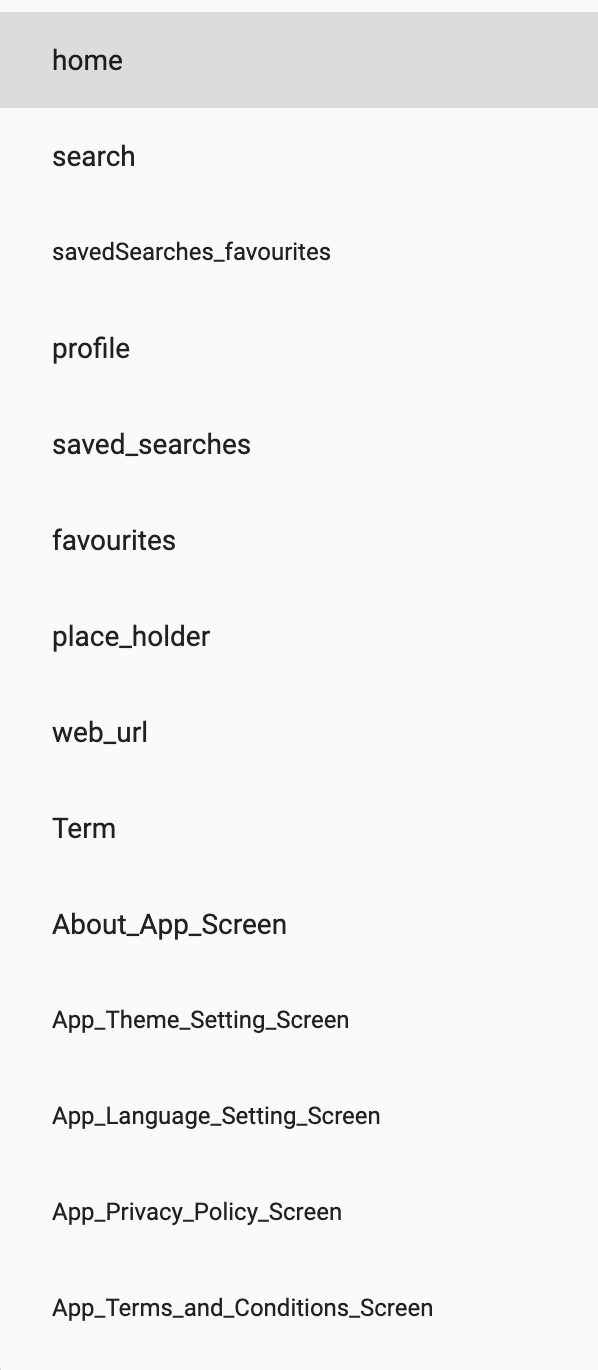
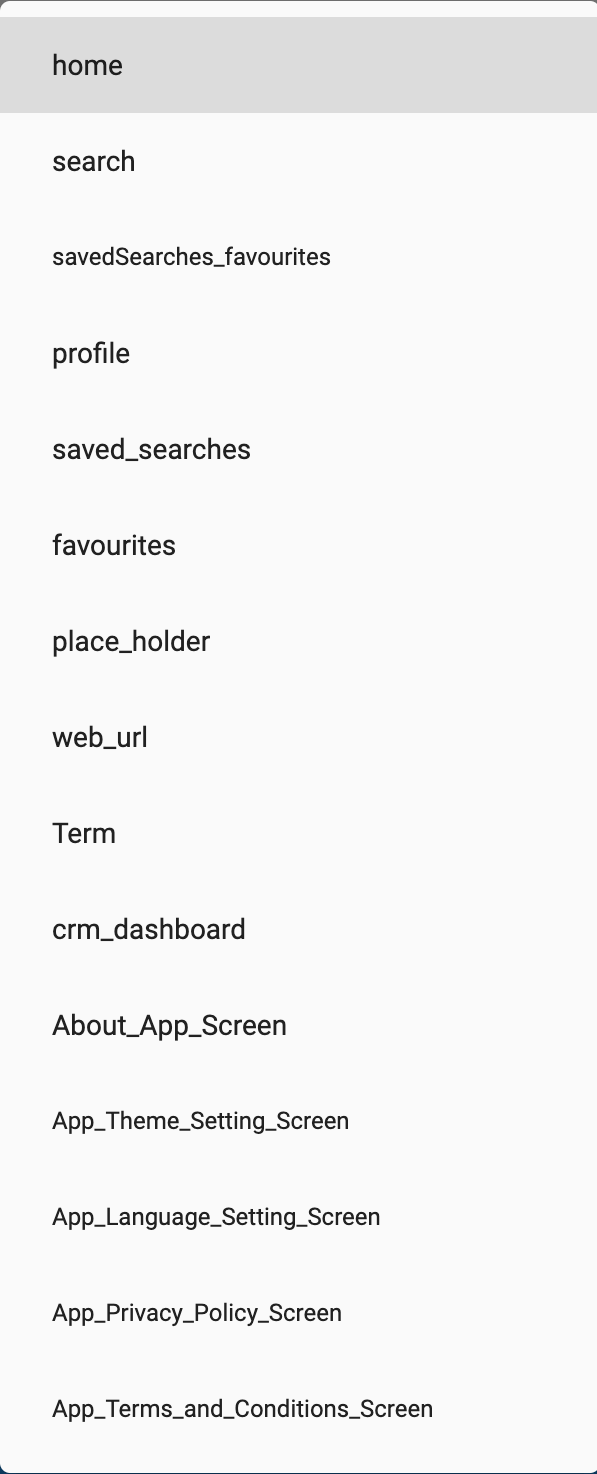
updated doc with crm_dashboard widgetType in drawer and navigation bar screens.

diff --git a/_docs/houzi-builder/8_customize-drawer.md b/_docs/houzi-builder/8_customize-drawer.md
@@ -46,6 +46,8 @@ You are provided with the dropdown list of  **Widget Types**. The details of wid
 
 * **Term:** If you want to show *Particular Term* e.g. *Apartmets, Offices* etc.
 
+* **crm_dashboard:** If you want to show *CRM Dashboard* screen menu option.
+
 * **About_App_Screen:** If you want to show *About App* screen menu option.
 
 * **App_Theme_Setting_Screen:** If you want to show *App Theme Setting* App screen menu option.
@@ -56,7 +58,7 @@ You are provided with the dropdown list of  **Widget Types**. The details of wid
 
 * **App_Terms_and_Conditions_Screen:** If you want to show *App Terms and Conditions* screen menu option.
 
-    <img src="../../images/drawer-add-widget-section-types-dialog.png" alt="drawer-add-widget-section-types-dialog" title="drawer-add-widget-section-types-dialog" width=300 height=400 border= "1px solid"/>
+    <img src="../../images/drawer-add-widget-section-types-dialog.png" alt="drawer-add-widget-section-types-dialog" title="drawer-add-widget-section-types-dialog" width=300 height=420 border= "1px solid"/>
 
 
 ### Title:

diff --git a/_docs/houzi-builder/7_customize-navigation-bar.md b/_docs/houzi-builder/7_customize-navigation-bar.md
@@ -78,6 +78,8 @@ You are provided with the dropdown list of  **Widget Types**. The details of wid
 
 * **Term:** If you want to show *Particular Term* e.g. *Apartmets, Offices* etc.
 
+* **crm_dashboard:** If you want to show *CRM Dashboard* screen menu option.
+
 * **About_App_Screen:** If you want to show *About App* screen menu option.
 
 * **App_Theme_Setting_Screen:** If you want to show *App Theme Setting* App screen menu option.
@@ -88,7 +90,7 @@ You are provided with the dropdown list of  **Widget Types**. The details of wid
 
 * **App_Terms_and_Conditions_Screen:** If you want to show *App Terms and Conditions* screen menu option.
 
-    <img src="../../images/navbar-widget-types-dropdown.png" alt="navbar-widget-types-dropdown" title="navbar-widget-types-dropdown" width=300 height=700 border= "1px solid"/>
+    <img src="../../images/navbar-widget-types-dropdown.png" alt="navbar-widget-types-dropdown" title="navbar-widget-types-dropdown" width=300 height=720 border= "1px solid"/>
 
 
 ### Title:
